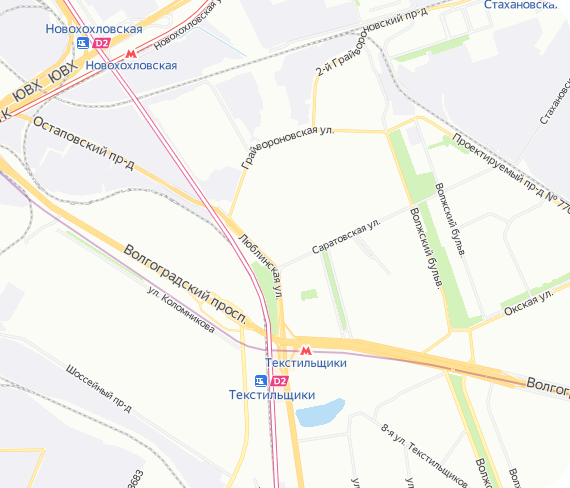
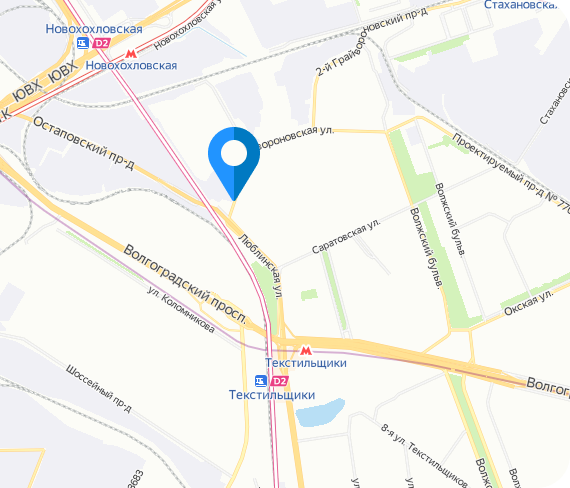
feat: add html markup and styles for footer

Changed region(s): [[0.3579, 0.2459, 0.4772, 0.4303]]

diff --git a/src/scss/blocks/_footer.scss b/src/scss/blocks/_footer.scss
@@ -1,0 +1,236 @@
+.footer {
+	margin-bottom: rem(70);
+
+	// .footer__map
+
+	&__map {
+		&:not(:last-child) {
+			margin-bottom: rem(40);
+		}
+
+		@media screen and (max-width: em(768)) {
+			&:not(:last-child) {
+				margin-bottom: rem(25);
+			}
+		}
+
+		@media screen and (max-width: em(480)) {
+			&:not(:last-child) {
+				margin-bottom: rem(20);
+			}
+		}
+	}
+
+	// .footer__terms-and-conditions
+
+	&__terms-and-conditions {}
+}
+
+.map {
+
+	// .map__container
+
+	&__container {
+		display: grid;
+		grid-template-columns: repeat(2, 1fr);
+
+		border-radius: rem(35);
+		box-shadow: 0 0 rem(20) 0 rgba(0, 0, 0, 0.25);
+		background: var(--clr-secondary);
+
+		max-width: rem($containerWidth);
+		padding-inline: 0;
+		overflow: hidden;
+
+		@media screen and (max-width: em(768)) {
+			grid-template-columns: revert;
+			grid-auto-rows: 1fr;
+
+			border-radius: rem(30);
+		}
+	}
+
+	// .map__text-block
+
+	&__text-block {
+		padding: rem(40);
+
+		@media screen and (max-width: em(768)) {
+			padding: rem(30);
+		}
+	}
+
+	// .map__hgroup
+
+	&__hgroup {
+		&:not(:last-child) {
+			margin-bottom: rem(20);
+		}
+
+		@media screen and (max-width: em(480)) {
+			&:not(:last-child) {
+				margin-bottom: rem(15);
+			}
+		}
+	}
+
+	// .map__title
+
+	&__title {
+		font-family: var(--ff-secondary);
+		font-size: rem(36);
+		letter-spacing: 0.05em;
+		text-transform: uppercase;
+		color: var(--clr-text-highlighted);
+
+		text-wrap: pretty;
+
+		&:not(:last-child) {
+			margin-bottom: rem(16);
+		}
+
+		@media screen and (max-width: em(992)) {
+			font-size: rem(30);
+		}
+
+		@media screen and (max-width: em(480)) {
+			font-size: rem(24);
+
+			&:not(:last-child) {
+				margin-bottom: rem(10);
+			}
+		}
+	}
+
+	// .map__subtitle
+
+	&__subtitle {
+		font-size: rem(18);
+		letter-spacing: 0.05em;
+		text-transform: uppercase;
+		color: var(--clr-text-map);
+
+		text-wrap: balance;
+
+		@media screen and (max-width: em(992)) {
+			font-size: rem(16);
+		}
+	}
+
+	// .map__separator
+
+	&__separator {
+		display: block;
+
+		border: 1px solid rgba(27, 38, 57, 0.2);
+		height: 0;
+		width: 100%;
+
+		&:not(:last-child) {
+			margin-bottom: rem(30);
+		}
+
+		@media screen and (max-width: em(480)) {
+			&:not(:last-child) {
+				margin-bottom: rem(20);
+			}
+		}
+	}
+
+	// .map__contacts
+
+	&__contacts {}
+
+	// .map__contact
+
+	&__contact {
+		font-size: rem(18);
+
+		&:not(:last-child) {
+			margin-bottom: rem(45);
+		}
+
+		@media screen and (max-width: em(992)) {
+			font-size: rem(16);
+		}
+
+		@media screen and (max-width: em(480)) {
+			&:not(:last-child) {
+				margin-bottom: rem(20);
+			}
+		}
+	}
+
+	// .map__contact-title
+
+	&__contact-title {
+		font-weight: 700;
+		text-transform: uppercase;
+		color: var(--clr-text-highlighted);
+
+		&:not(:last-child) {
+			margin-bottom: rem(5);
+		}
+	}
+
+	// .map__contact-info
+
+	&__contact-info {
+		color: var(--clr-text-map);
+	}
+
+	// .map__interactive-map
+
+	&__interactive-map {
+		min-height: rem(490);
+
+		background-image: url('@img/footer/map-placeholder.png');
+		background-size: cover;
+		background-position: center;
+
+		@media screen and (max-width: em(992)) {
+			min-height: rem(400);
+		}
+
+		@media screen and (max-width: em(768)) {
+			min-height: revert;
+		}
+	}
+}
+
+.terms-and-conditions {
+
+	// .terms-and-conditions__container
+
+	&__container {
+		display: flex;
+		justify-content: space-between;
+		gap: rem(10);
+
+		max-width: rem($containerWidth);
+
+		@media screen and (max-width: em(768)) {
+			font-size: rem(12);
+		}
+
+		@media screen and (max-width: em(480)) {
+			flex-direction: column;
+		}
+	}
+
+	// .terms-and-conditions__document-link
+
+	&__document-link {
+		font-size: rem(14);
+		text-decoration: underline;
+		text-decoration-skip-ink: none;
+		color: var(--clr-text-default);
+
+		text-align: center;
+		text-wrap: balance;
+
+		@media screen and (max-width: em(768)) {
+			font-size: rem(12);
+		}
+	}
+}

diff --git a/src/html/blocks/footer.html b/src/html/blocks/footer.html
@@ -1,3 +1,30 @@
 <footer class="footer">
-
+	<section class="footer__map map">
+		<div class="map__container --container">
+			<div class="map__text-block">
+				<hgroup class="map__hgroup">
+					<h2 class="map__title">Посетите наш уютный офис</h2>
+					<p class="map__subtitle">где мы сможем вас полностью проконсультировать по всем вопросам</p>
+				</hgroup>
+				<span class="map__separator"></span>
+				<div class="map__contacts">
+					<div class="map__contact">
+						<h3 class="map__contact-title">Офис</h3>
+						<span class="map__contact-info">Видное, Белокаменное шоссе, 20</span>
+					</div>
+					<div class="map__contact">
+						<h3 class="map__contact-title">Телефон</h3>
+						<a href="tel:+79263306834" class="map__contact-info">+7 926 330-68-34</a>
+					</div>
+				</div>
+			</div>
+			<div id="interactiveMap" class="map__interactive-map"></div>
+		</div>
+	</section>
+	<section class="footer__terms-and-conditions terms-and-conditions">
+		<div class="terms-and-conditions__container --container">
+			<a href="#" class="terms-and-conditions__document-link">Политика конфиденциальности</a>
+			<a href="#" class="terms-and-conditions__document-link">Согласие на обработку персональных данных</a>
+		</div>
+	</section>
 </footer>

diff --git a/src/scss/blocks/_header.scss b/src/scss/blocks/_header.scss
@@ -54,9 +54,9 @@
 	&__logo-separator {
 		grid-row: 2 / 3;
 
-		width: 1px;
+		border: 1px solid #fff;
+		width: 0;
 		height: 100%;
-		background-color: #fff;
 
 		@media screen and (max-width: em(675)) {
 			display: none;
